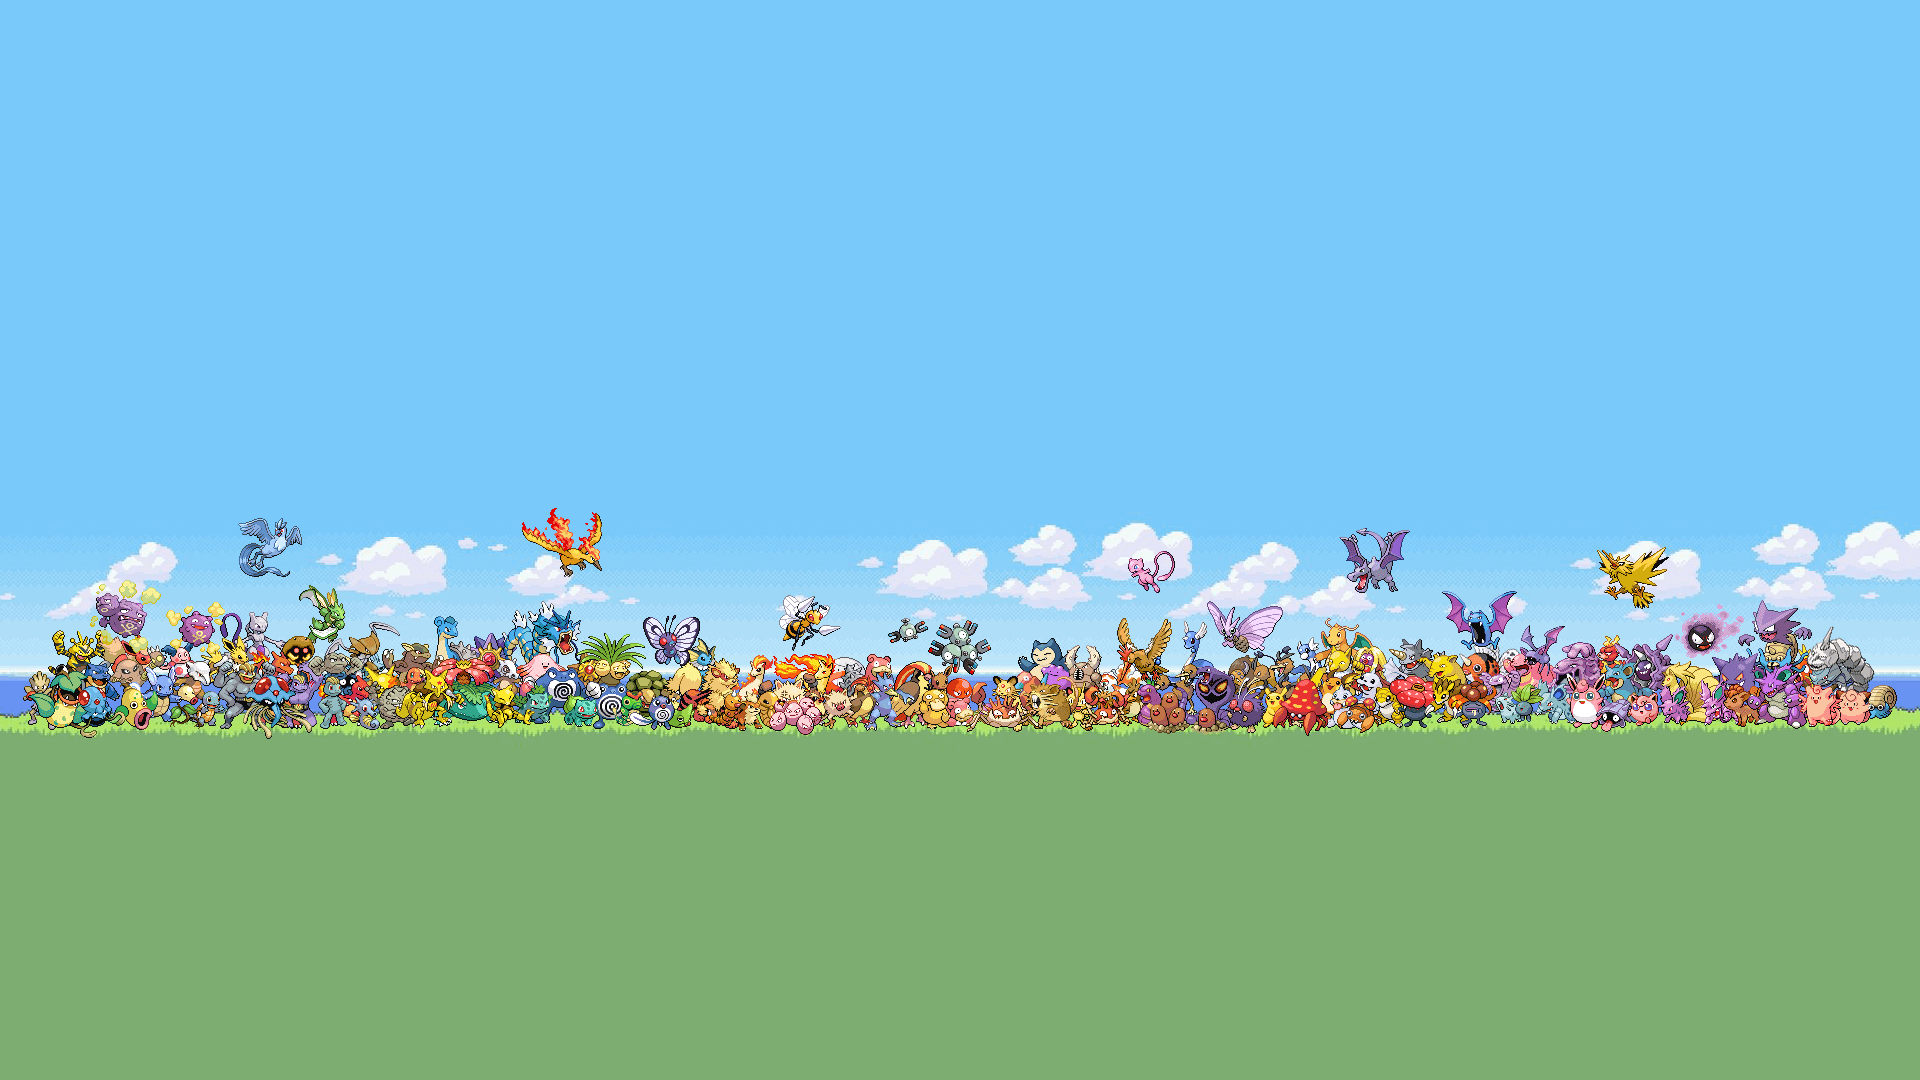
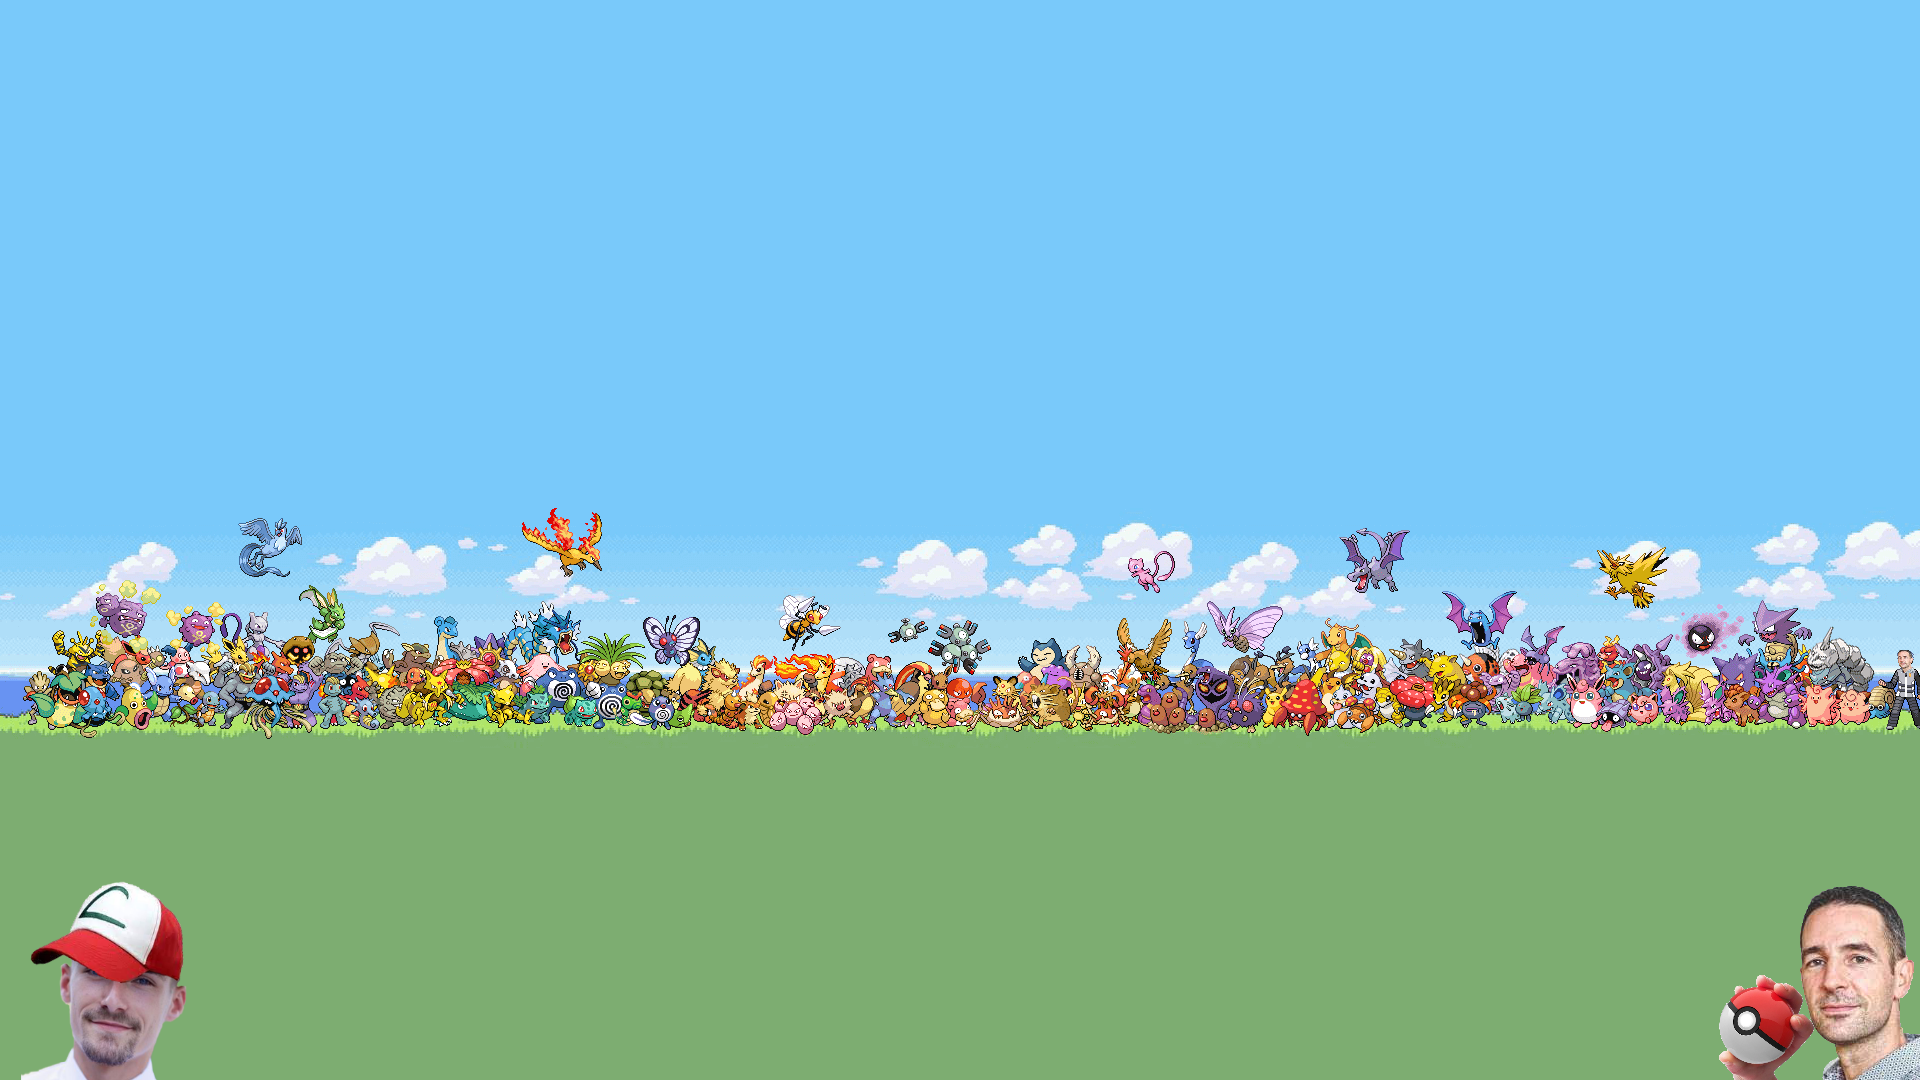
thierry added

Changed region(s): [[0.875, 0.825, 1.0, 1.0], [0.0, 0.825, 0.0938, 1.0], [0.9688, 0.6111, 1.0, 0.6722]]

diff --git a/index.html b/index.html
@@ -114,6 +114,9 @@
 
 
 
+    <section class="text-light container text-center"> PokéKilo garantie un élevage en plein air de ses pokémons, aucun Pokémon n'a été maltraité dans la mise en place de ses entrepôts, un site de Benkebouche Mehdi Foret Anthony et Parsy Quentin. 2 Thierry et un Brian se sont cachés</section>
+
+
     <script src="https://cdn.jsdelivr.net/npm/bootstrap@5.1.3/dist/js/bootstrap.bundle.min.js"
         integrity="sha384-ka7Sk0Gln4gmtz2MlQnikT1wXgYsOg+OMhuP+IlRH9sENBO0LRn5q+8nbTov4+1p" crossorigin="anonymous">
     </script>
